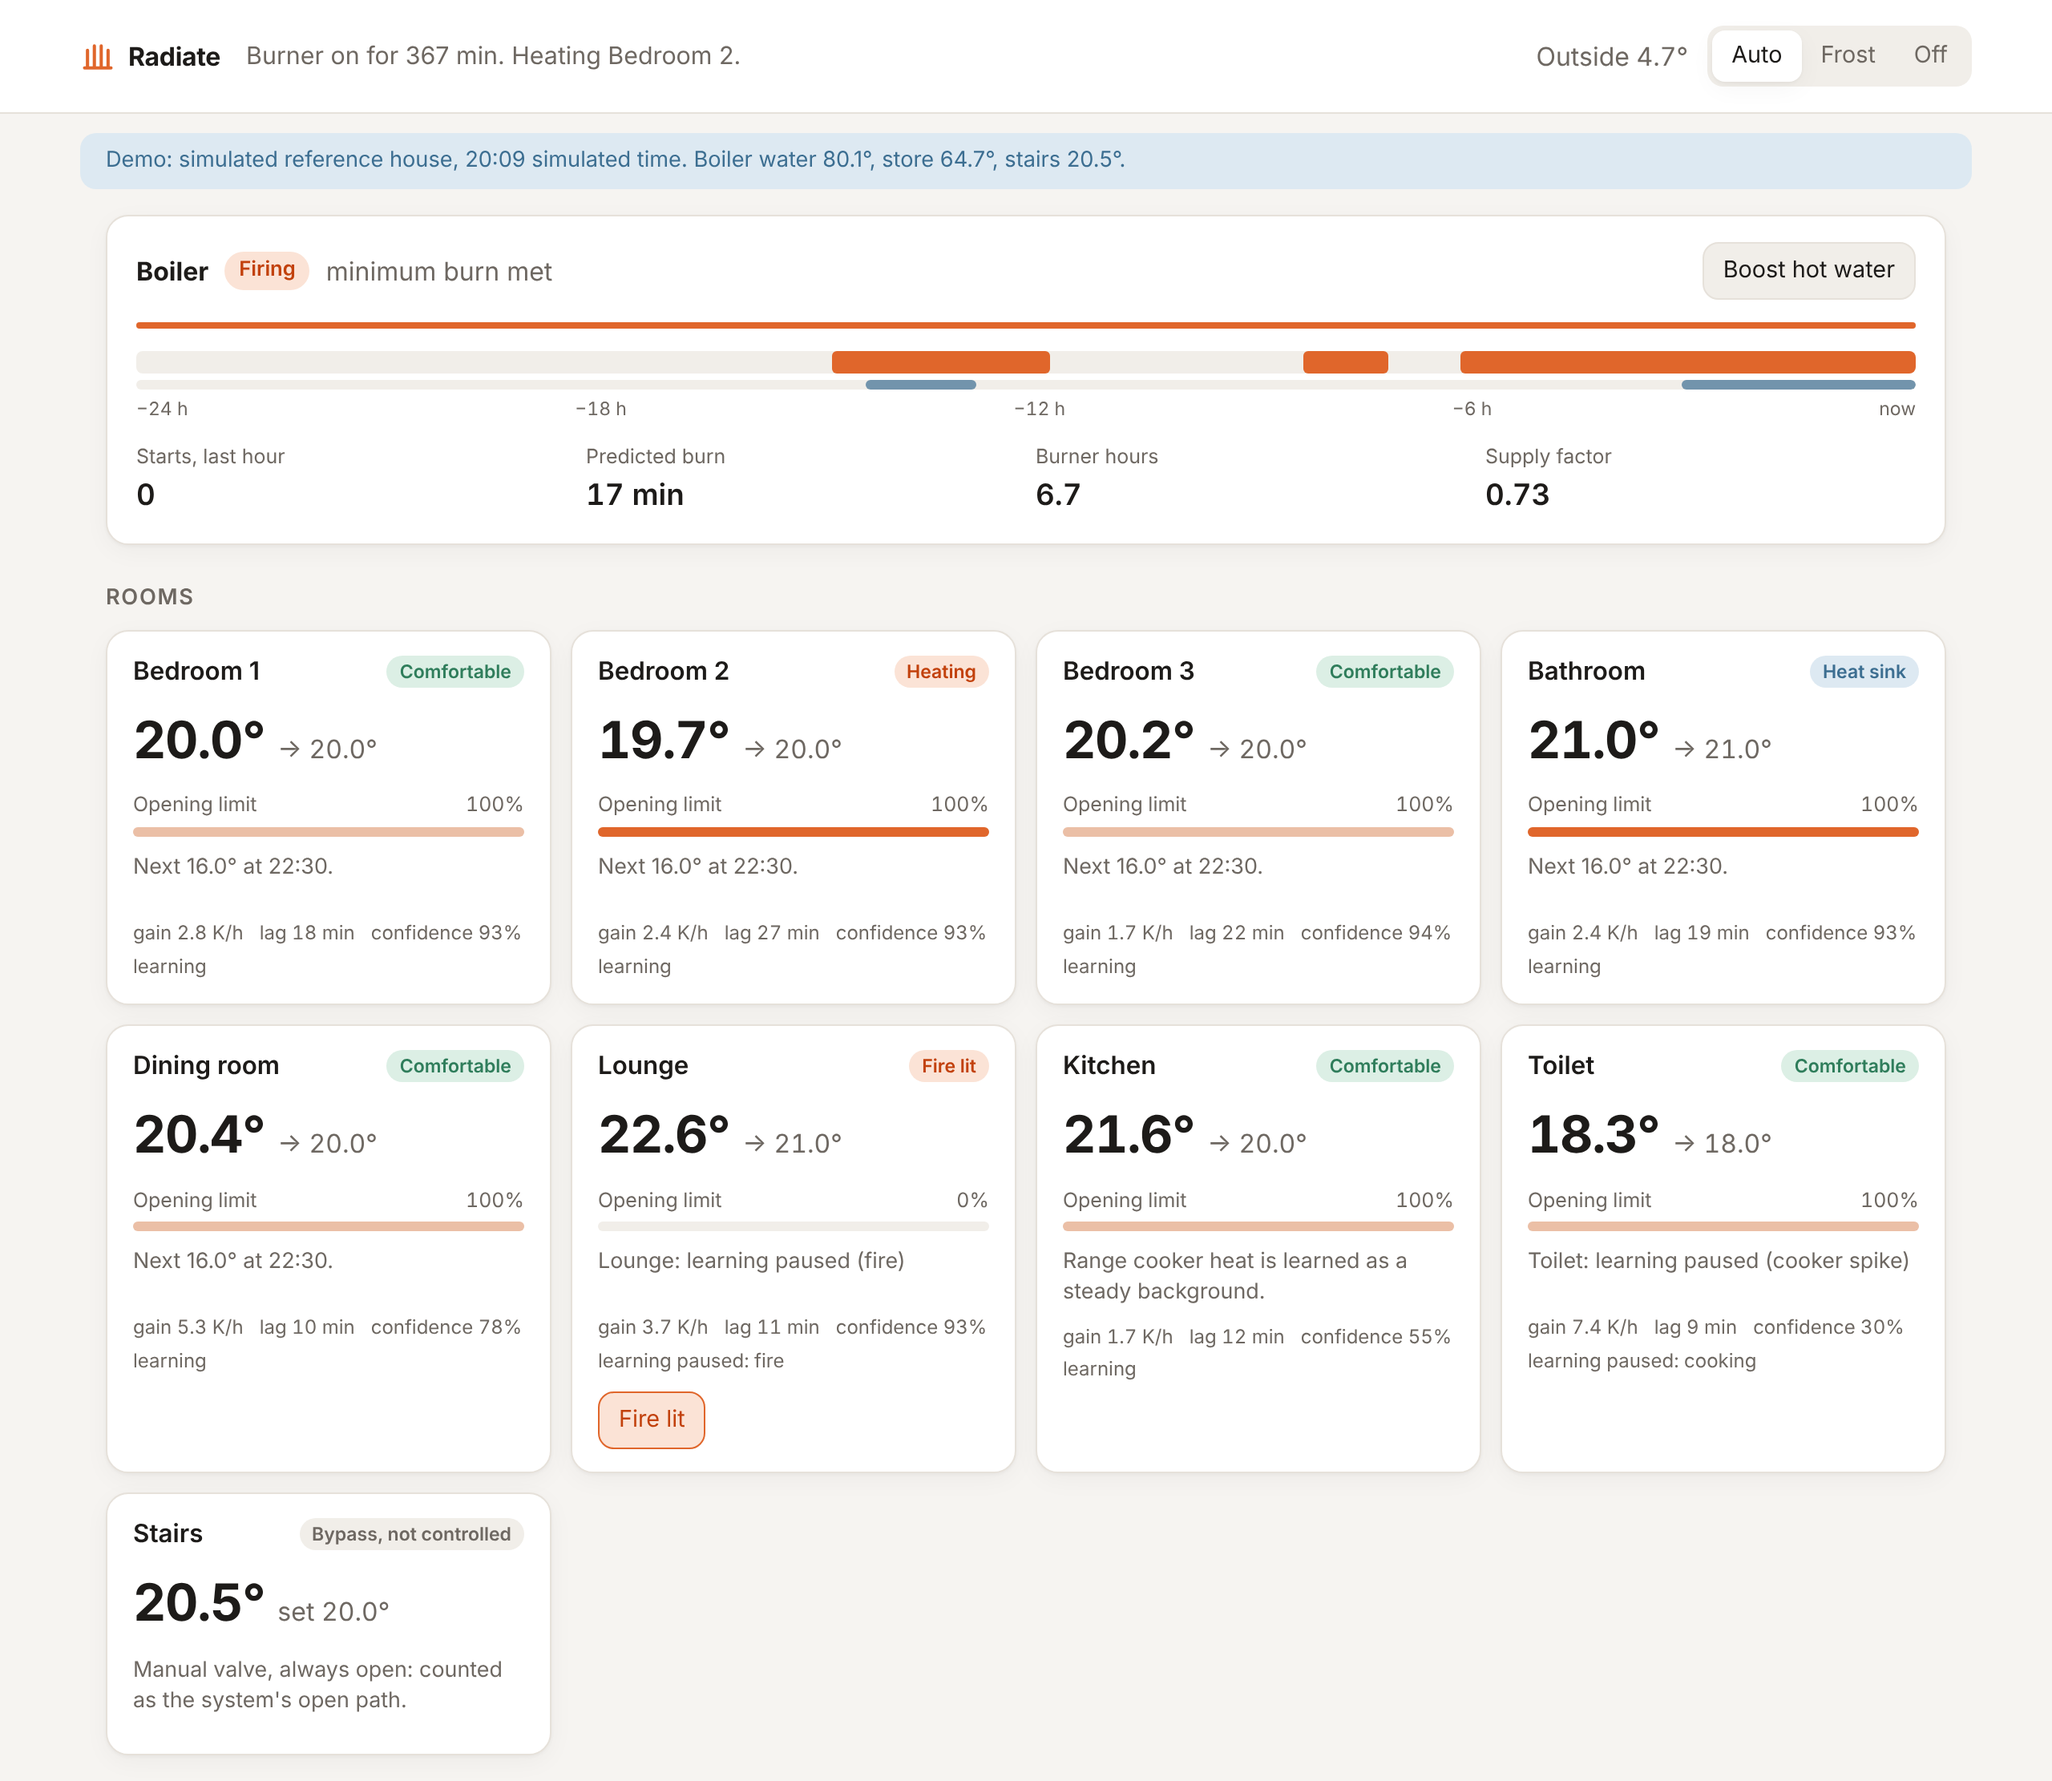
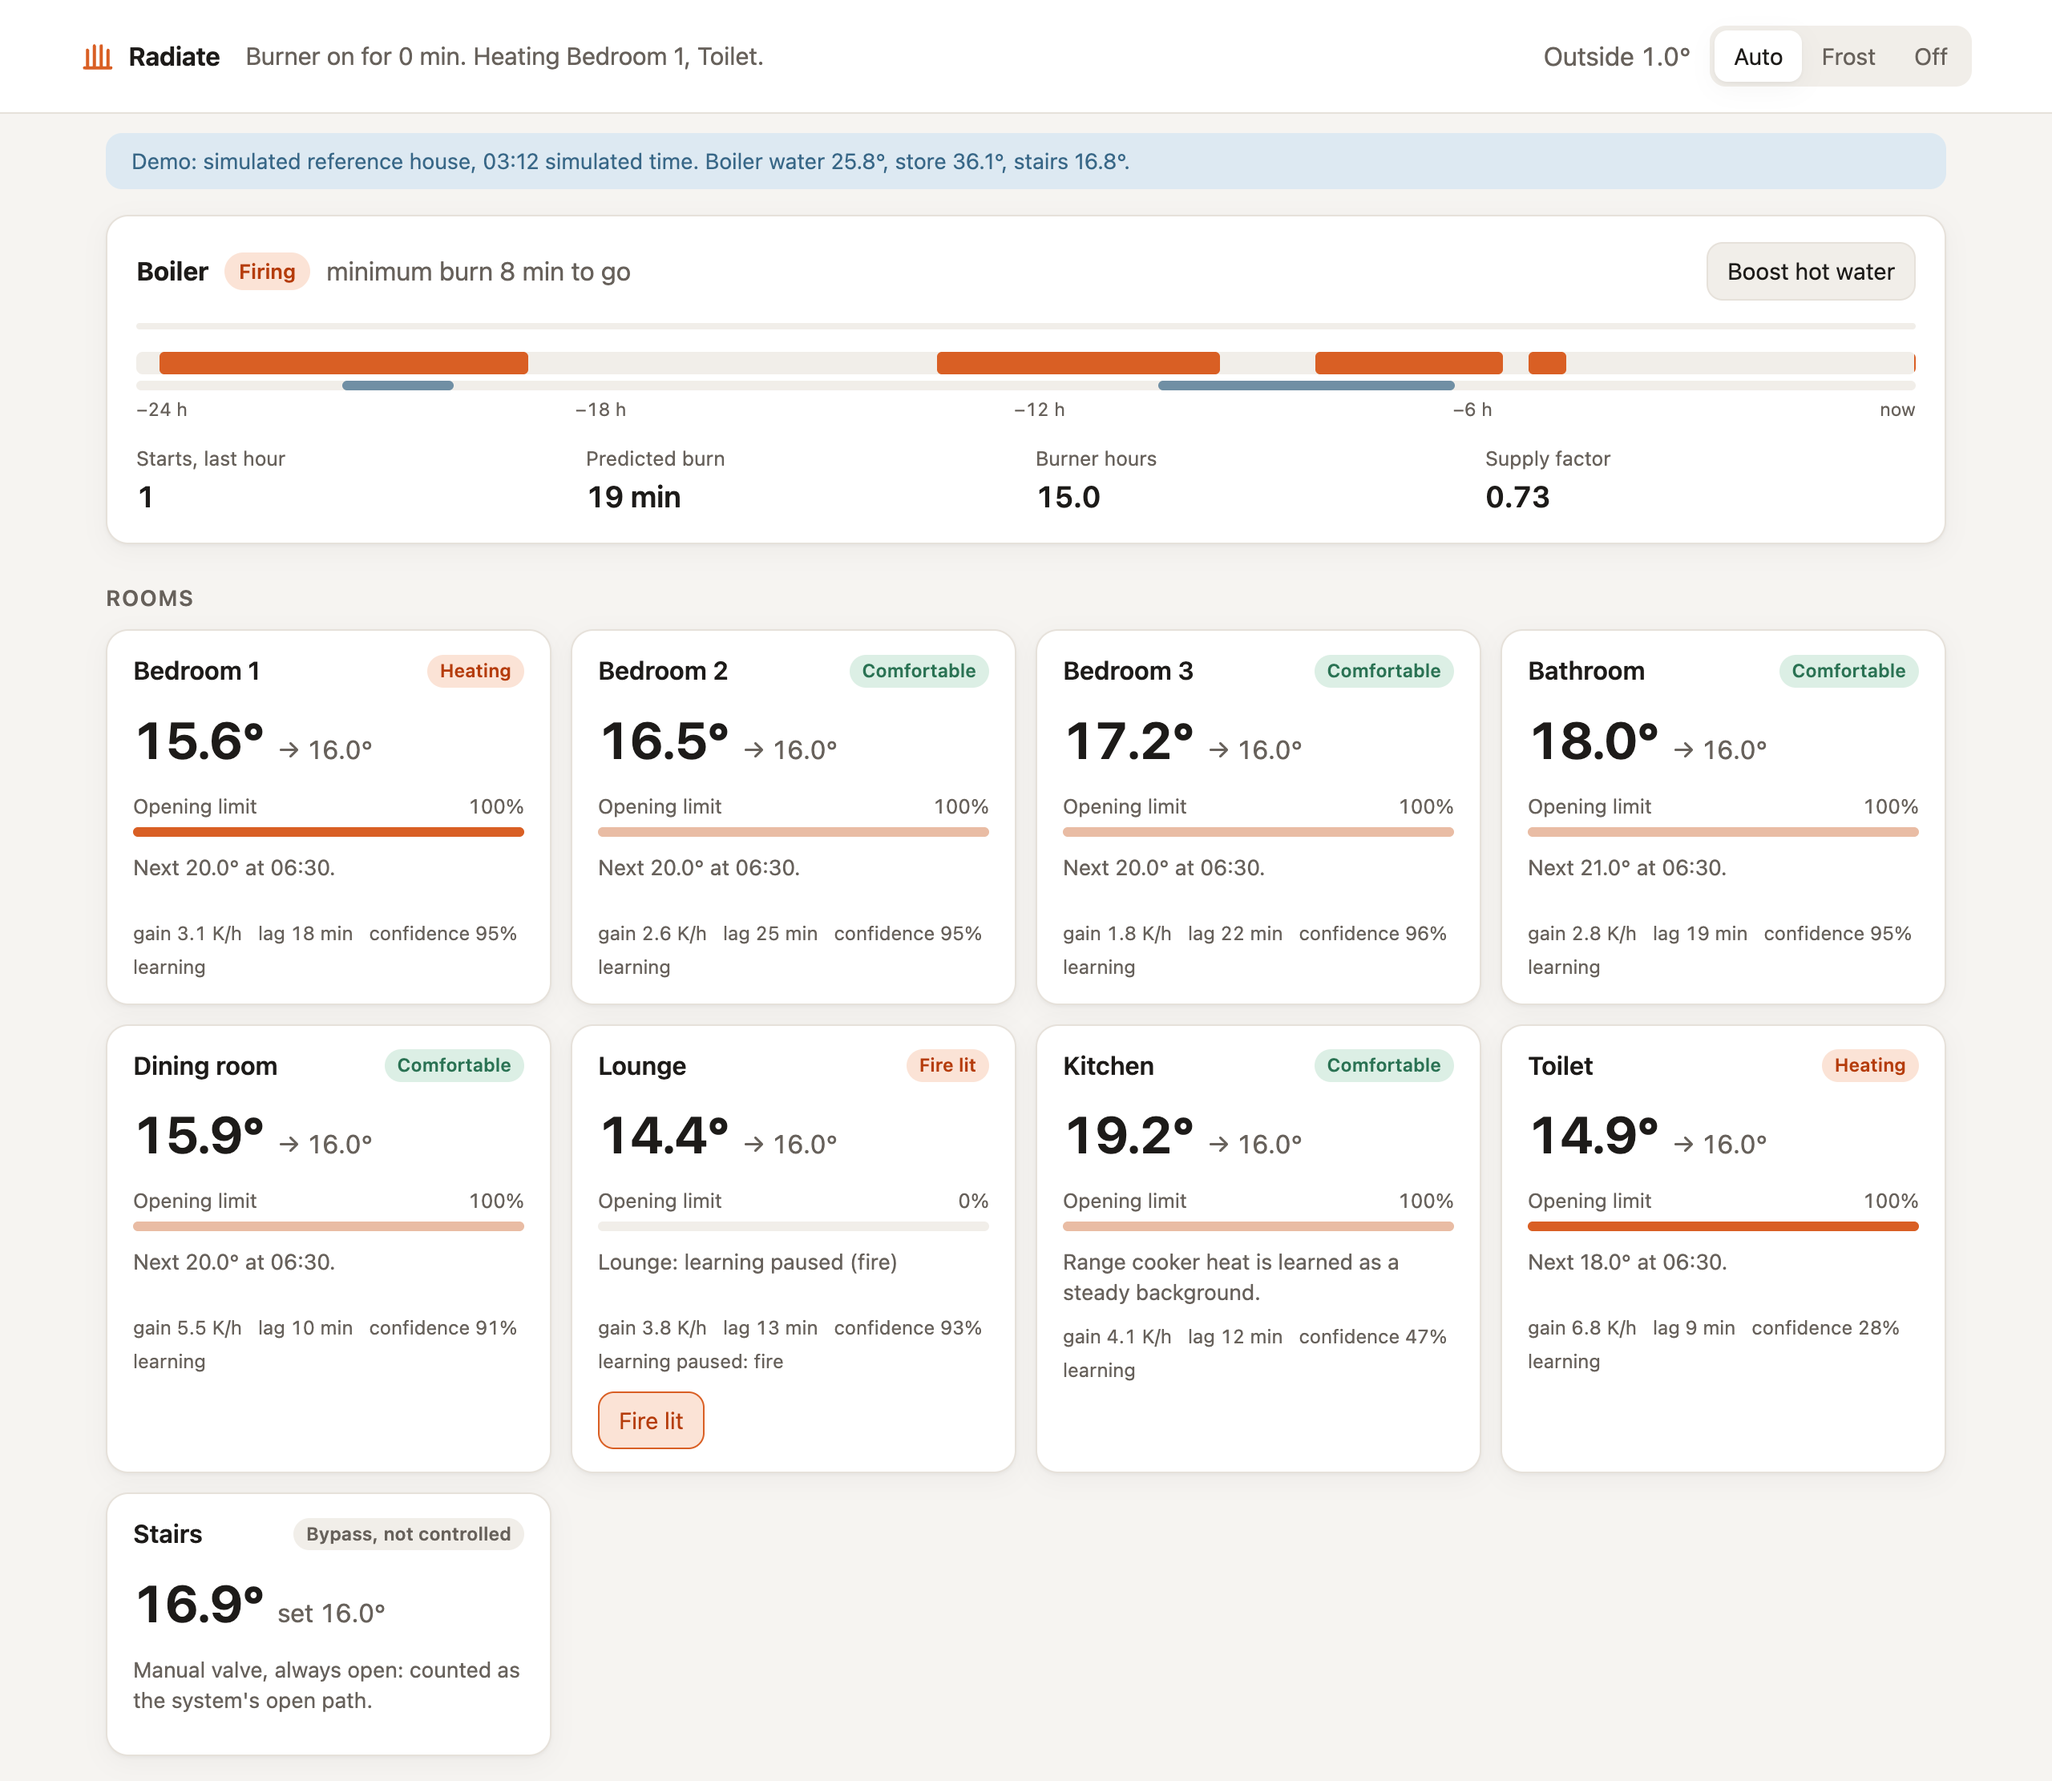
Document token sign-in, dry run, stale and alert states and the AA tokens
- deployment.md: recommend RADIATE_TOKEN on standalone installs and
  describe the sign-in card and how the stream receives the token.
- spec.md: the stream accepts the token as its first message, close code
  4401 on failure.
- design.md: new token values, a contrast table for both themes, touch
  targets under (pointer: coarse), and the offline, dry run, alerts and
  sign-in states. The known-gaps list is resolved.
- Fresh ui-demo.png from the server demo.

diff --git a/docs/standards/design.md b/docs/standards/design.md
@@ -22,19 +22,33 @@ All colours are CSS custom properties on `:root`, with a dark set under `@media 
 | `--surface` | `#ffffff` | `#1e1c1a` | Cards, header |
 | `--surface-2` | `#f1eee9` | `#26231f` | Tracks, segmented control, neutral chips |
 | `--text` | `#1d1b19` | `#f1ede8` | Body text |
-| `--muted` | `#6e6862` | `#a39b92` | Secondary text, labels |
+| `--muted` | `#67615b` | `#a39b92` | Secondary text, labels |
 | `--line` | `#e6e1da` | `#34302b` | Borders |
-| `--heat` | `#e0662b` | `#f08a4b` | Burns, valve bars, the brand mark |
+| `--heat` | `#d95f24` | `#f08a4b` | Burns, valve bars, the brand mark |
 | `--heat-soft` | `#fbe3d6` | `#3d2618` | Background for heating and fire states |
-| `--ember` | `#c2410c` | `#c2410c` (no dark value) | Text on `--heat-soft` |
-| `--cool` | `#3c6e91` | `#7fb2d6` | Rest, store, demo banner, focus ring |
+| `--ember` | `#b53c0b` | `#f5a06a` | Text on `--heat-soft` |
+| `--cool` | `#386787` | `#7fb2d6` | Rest, store, demo banner, focus ring, the sign-in button |
 | `--cool-soft` | `#dde9f2` | `#1d2c37` | Background for rest, heat sink and demo |
-| `--ok` | `#2f7d5b` | `#6cc59c` | Comfortable |
+| `--ok` | `#2a7253` | `#6cc59c` | Comfortable |
 | `--ok-soft` | `#dcefe5` | `#17302a` | Background for comfortable |
-| `--warn` | `#a35a00` | `#f0b45a` | Lead, preheating, alerts |
+| `--warn` | `#975300` | `#f0b45a` | Lead, preheating, alerts, dry run, stale data |
 | `--warn-soft` | `#fbecd2` | `#36290f` | Background for those states |
 
 Colour carries meaning, so keep it consistent: heat colours for anything burning or calling, cool for resting and hot water, green for comfortable, amber for waiting or needing attention. Every coloured state also has a text label, so colour is never the only signal.
+
+These text pairs meet WCAG 2.1 AA for small text (4.5:1). Badges, chips and the pressed button use them at 0.72rem to 0.9rem.
+
+| Text on background | Light | Dark |
+|---|---|---|
+| `--ember` on `--heat-soft` | 4.7:1 | 6.8:1 |
+| `--warn` on `--warn-soft` | 5.1:1 | 7.7:1 |
+| `--ok` on `--ok-soft` | 4.8:1 | 6.8:1 |
+| `--cool` on `--cool-soft` | 4.9:1 | 6.3:1 |
+| `--muted` on `--surface-2` | 5.3:1 | 5.7:1 |
+| `--muted` on `--cool-soft` (demo banner note) | 4.9:1 | 5.2:1 |
+| `--surface` on `--cool` (sign-in button) | 6.1:1 | 7.5:1 |
+
+Bars meet 3:1 against their track: `--heat` on `--surface-2` is 3.2:1 in light mode and 6.3:1 in dark mode.
 
 ## Type
 
@@ -83,7 +97,7 @@ Colour carries meaning, so keep it consistent: heat colours for anything burning
 | Name exact properties | List each transitioned property. Never `transition: all`. |
 | Use transitions, not keyframes, for live data | Values change every tick; transitions retarget, keyframes restart. |
 
-New UI that enters or leaves (a sheet, a toast) starts from `scale(0.95)` and `opacity: 0`, never from `scale(0)`.
+New UI that enters or leaves (a sheet, a toast) starts from `scale(0.95)` and `opacity: 0`, never from `scale(0)`. The sign-in card enters from `scale(0.98)` and `opacity: 0` with `@starting-style`. Stale data fades to `opacity: 0.55` over 200 ms.
 
 ## Accessibility
 
@@ -93,13 +107,10 @@ New UI that enters or leaves (a sheet, a toast) starts from `scale(0.95)` and `o
 - The focus ring is `outline: 2px solid var(--cool)` with a 2px offset on `:focus-visible`. Never remove it.
 - The status line is `aria-live="polite"`, so screen readers hear the boiler state change without being interrupted.
 - Decorative graphics (the brand mark, the guard bar) are `aria-hidden="true"`. Graphics that carry data, such as the timeline, have an `aria-label`.
-- Touch targets aim for at least 44 by 44 px on phones.
+- Touch targets are at least 44 px tall on touch screens. Under `(pointer: coarse)`, buttons, the segmented controls and the token field get `min-height: 44px` (segment buttons also `min-width: 44px`). Desktop buttons stay about 32 px tall.
+- The alerts toggle is a `<button>` with `aria-expanded` and `aria-controls`. Sign-in errors use `role="alert"`.
 
-Known gaps against these rules, as of this page:
-
-- Dark mode `--ember` on `--heat-soft` measures about 2.7:1, below AA. `--ember` needs a dark value.
-- In light mode the small badge and chip text on its soft background measures 4.2:1 to 4.5:1. That passes for large text only, and badges are 0.72rem to 0.8rem.
-- Buttons are about 32 px tall, under the 44 px target on phones.
+Stale data is the one deliberate exception to the contrast rule: it dims to 55% opacity so it reads as out of date, and the status line above it keeps full contrast and says how old it is.
 
 ## Copy
 
@@ -111,7 +122,7 @@ UI text follows the same writing rules as the docs: UK English, metric units, no
 - **Sentence case** for labels and buttons: "Boost hot water", "Fire lit".
 - **Units every time**: `20.5°` for temperatures, `35%` for openings, `12 min` for durations, `K/h` for rates. Times are 24-hour local time (`07:10`).
 - **Missing values** show a single placeholder glyph, `–`, never `0` or blank. This is the only place a dash character appears.
-- **Errors say what happened and what Radiate is doing about it**: "Cannot reach Radiate. Retrying…".
+- **Errors say what happened and what Radiate is doing about it**: "Cannot reach Radiate. Retrying… Showing data from 14:32.".
 - No exclamation marks, no blame, no marketing words.
 
 ## States to design for
@@ -121,10 +132,11 @@ Every view has to make sense in each of these states. When you add a component, 
 | State | What the reader must see | How it shows today |
 |---|---|---|
 | Loading | That the page is connecting | Status line "Connecting…" until the first state arrives |
-| Offline | That the data is stale and Radiate is retrying | Partly. "Cannot reach Radiate. Retrying…" appears only when a poll fails. When the WebSocket drops, the page reconnects every 2 s but keeps showing the last state with no stale marker |
+| Offline | That the data is stale and Radiate is retrying | When the WebSocket drops, the page polls once per reconnect attempt (2 s, backing off to 15 s). If the poll fails too, the page dims and the status line, in amber, says "Cannot reach Radiate. Retrying… Showing data from 14:32." The next state from either path clears it |
 | Demo | That nothing is real | Cool banner with the simulated time and boiler, store and stairs temperatures |
-| Dry run | That Radiate is not writing to devices | Not shown yet. The state's `telemetry.dry_run` is true. It needs a persistent banner, like the demo one, with the count of intended writes |
-| Alerts | What needs attention, in words | Amber alerts panel under the rooms |
+| Dry run | That Radiate is not writing to devices | Persistent notice under the header with an amber "Dry run" tag, the held-back valve writes and boiler commands, and the latest five writes behind a disclosure |
+| Alerts | What needs attention, in words | Amber "Needs attention" panel under the rooms, one alert per list item. A problem shared by several rooms is one line, for example "TRV not reachable (8 rooms): Bedroom 1, …". After four lines the rest sit behind "Show N more" |
+| Sign-in | That the server needs its token | When the API answers 401, a sign-in card replaces the page. The token is kept in `localStorage` and sent as a Bearer header and as the stream's first message. Never shown through Home Assistant ingress or in the demo |
 | Safe mode | That the boiler is stopping and why | Shown as an alert |
 | Boiler states | Idle, opening valves, firing, resting, with minimum burn and minimum off progress | Chip, status line and guard bar |
 | Room states | Heating, preheating, heat sink, fire lit, comfortable, waiting, bypass | Badge per room card |

diff --git a/docs/deployment.md b/docs/deployment.md
@@ -115,7 +115,7 @@ docker run --rm -p 8099:8099 radiate radiate serve --demo --speed 60
 
    To force dry run whatever the file says, add `--dry-run` to the end of the command.
 
-6. Watch the log with `docker logs -f radiate`. In dry run, each write Radiate would have made appears as a `dry run: would publish` line.
+6. Watch the log with `docker logs -f radiate`. In dry run, each write Radiate would have made appears as a `dry run: would publish` line. The web UI shows a **Dry run** notice with the number of held-back writes and the latest five.
 
 The container makes outbound connections to the MQTT broker and the Shelly, so the default bridge network works as long as the host can reach both.
 
@@ -123,13 +123,15 @@ The container makes outbound connections to the MQTT broker and the Shelly, so t
 
 | Variable | Meaning |
 |---|---|
-| `RADIATE_TOKEN` | If set, every `/api/` request except `/api/v1/health` needs the header `Authorization: Bearer <token>` |
+| `RADIATE_TOKEN` | If set, every `/api/` request except `/api/v1/health` needs the header `Authorization: Bearer <token>`. The WebSocket at `/api/v1/stream` also accepts it as the first message, `{"token": "<token>"}` |
 | `RADIATE_ELASTIC_URL`, `RADIATE_ELASTIC_API_KEY` | Turn on [Elastic export](#elastic-export) |
 | `RADIATE_INGRESS_IP` | Set by the Home Assistant App only. Requests from this address with an `X-Ingress-Path` header skip the token check |
 | `RADIATE_WEB_DIR` | Serve the web UI from another folder, for UI development |
 | Any name used as `${NAME}` in the configuration file | Substituted when the file loads |
 
-The built-in web UI does not send a token. If you set `RADIATE_TOKEN` on a standalone install, the UI loads but cannot fetch any data. Until that changes, leave the token unset on standalone installs, keep port 8099 on a trusted network, and never expose it to the internet.
+We recommend setting `RADIATE_TOKEN` on a standalone install. The built-in web UI then shows a sign-in card the first time you open it. Enter the token, and the browser keeps it in its local storage, so you sign in once per browser. The UI sends it as a Bearer header, and as the first message on the live WebSocket, because browsers cannot set headers there. The token never goes in a URL, so it stays out of access and proxy logs. To sign out, clear the site data for Radiate in your browser.
+
+The token stops casual access, but the server speaks plain HTTP. Keep port 8099 on a trusted network and never expose it to the internet. Through Home Assistant ingress the sidebar panel needs no token, and the UI never asks for one.
 
 To check the server is up, request `http://HOST:8099/api/v1/health`, which returns `{"ok": true}` without a token.
 

diff --git a/docs/spec.md b/docs/spec.md
@@ -334,7 +334,7 @@ Request and response bodies are JSON. A body that is not a JSON object returns 4
 | `POST /api/v1/mode` | `{"mode": "auto"}` | `auto`, `off` or `frost` |
 | `GET /api/v1/stream` | | WebSocket: the state on connect and after every tick |
 
-Authentication: when `RADIATE_TOKEN` is set, every `/api/` path except `health` needs `Authorization: Bearer <token>`. In the HA App, requests from the Supervisor's ingress address (`RADIATE_INGRESS_IP`) that carry an `X-Ingress-Path` header are trusted without a token. The web UI at `/` and `/static/` is not protected.
+Authentication: when `RADIATE_TOKEN` is set, every `/api/` path except `health` needs `Authorization: Bearer <token>`. Browsers cannot set headers on a WebSocket, so `stream` also accepts the token as its first message, `{"token": "<token>"}`; it waits up to 10 s and closes with code 4401 if the token is missing or wrong. In the HA App, requests from the Supervisor's ingress address (`RADIATE_INGRESS_IP`) that carry an `X-Ingress-Path` header are trusted without a token. The web UI at `/` and `/static/` is not protected.
 
 ### 8.2 Home Assistant integration
 
